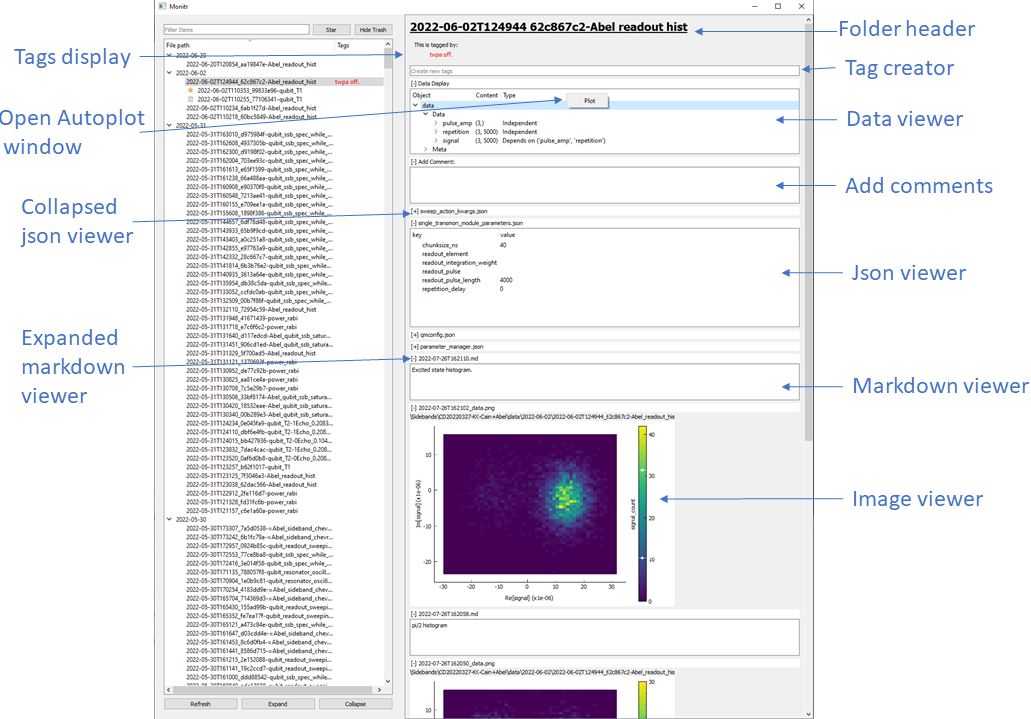
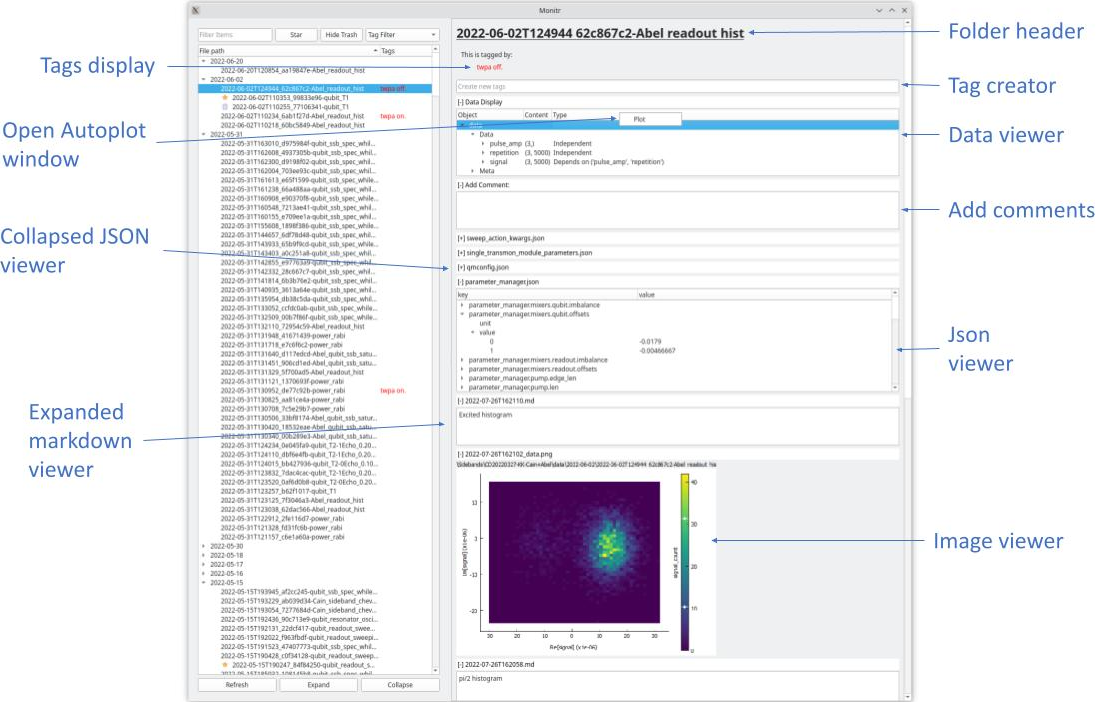
Images are now with the tag filter widget. Small revisions.

Changed region(s): [[0.0, 0.0, 1.0, 1.0], [0.5587, 0.4786, 0.6208, 0.5085], [0.7449, 0.8974, 0.7759, 0.9274]]

diff --git a/docs/source/plottr/monitr.rst b/docs/source/plottr/monitr.rst
@@ -7,11 +7,18 @@ Monitr is a file monitoring app that updates in real time showing every measurem
 How to Open Monitr
 ------------------
 
-Monitr is designed to monitor all subdirectories created inside the monitoring directory. We open Monitr from a terminal with the command:
+Monitr is designed to monitor all subdirectories created inside the monitoring directory. We open Monitr from a Linux terminal with the command:
+
+.. code-block:: console
+
+    $ plottr-monitr <monitoring-directory>
+
+From a Windows terminal:
 
 .. code-block:: console
 
     $ plottr-monitr.exe <monitoring-directory>
+
 
 The command will start the file monitoring and the main window will open:
 
@@ -22,7 +29,9 @@ The main window will display all :ref:`Datasets`, or directories containing data
 Datasets
 --------
 
-At the moment we define a folder as a dataset if it contains either a ddh5, markdown or json file inside of it. This is define in the :meth:`SupportedDataTypes <plottr.plottr.apps.monitr.SupportedDataTypes>`. If any file directory passes a regex matching with these file types, its parent folder is considered a dataset. If a directory lives inside of the monitoring directory but does not contain any of the three file types, or it doesn't have a folder that has them, the folder will not show in the main file tree.
+At the moment we define a folder as a dataset if it contains either a ddh5, markdown or json file inside of it. This is defined in the :meth:`SupportedDataTypes <plottr.plottr.apps.monitr.SupportedDataTypes>` object. If any file directory passes a regex matching with these file types, its parent folder is considered a dataset.
+
+.. note:: If a directory lives inside of the monitoring directory but does not contain any of the three file types, or it doesn't have a folder that has them, the folder will not show in the main file tree.
 
 Main Window (File Explorer)
 ---------------------------
@@ -35,12 +44,12 @@ The following is an example taken from a real data folder.
 Basic Control And Usability
 ^^^^^^^^^^^^^^^^^^^^^^^^^^^
 
-Selecting an item, either by clicking on it or selecting it with the arrow keys, will open the :ref:`right side window`. If you select an item that contains children, the right side window will contain all of the information of the parent item and all of its children:
+Selecting an item, either by clicking on it or selecting it with the arrow keys, will open the :ref:`right side window`. If you select an item that contains children, the right side window will contain all of the information of the selected item and all of its children:
 
 .. image:: img/right_side_window.png
 
 The following are a few things that the window can do:
-    * You can also have the window adjust the size of the File Path column automatically by double clicking in the column separator.
+    * You can resize the File Path column to show the complete name of all shown items, double click in the column separator.
     * You can rename any selected item by double clicking on its name or pressing F2 to change the currently selected item
     * Clicking on the collapse or extend bottom buttons will collapse or extend all currently showing items in the tree.
     * You can change the order in which the items are sorted (alphabetically or reverse alphabetically by clicking in the File Path column header.
@@ -50,43 +59,51 @@ The following are a few things that the window can do:
 Tags
 ^^^^
 
-Monitr supports custom tags that you can create on the fly. Tags are files with the .tag extension and its name is the tag itself. In the overview "twpa off" is a custom tag, the folder 2022-06-02T124944_62c867c2-Abel_readout_hist contains the file "twpa off.tag". All custom tags will appear in the tags column and they can be used for custom :ref:`filtering`.
-
-You can create new tags with the tag creator (see :ref:`Tags Display and Tag Creator` or by simply adding a .tag file in a dataset folder. Currently the only way of deleting or modifying a tag is to go in the directory and modify the file (easier modifications to tags are on the way :)).
+Monitr supports user created tags. Any file whose name end with ".tag" is considered a tag, and its file name becomes the text of the tag. In the overview "twpa off" is a custom tag, the folder 2022-06-02T124944_62c867c2-Abel_readout_hist contains the file "twpa off.tag". All custom tags will appear in the tags column and they can be used for custom :ref:`filtering`. You can create new tags with the tag creator (see :ref:`Tags Display and Tag Creator` or by simply adding a .tag file in a dataset folder). Two special tags exists: "__star__.tag" and "__trash__.tag", these will add icons to your items and have dedicated filtering buttons. The trash tag is the only tag that can be used to hide items.
 
 Filtering
 ^^^^^^^^^
 
-You can filter through the folders utilizing the "Filter Items" entry. All our filtering occurs by regex matching. When filtering, Monitr will show parent items if they contain children that match the filter requirements (even if the parent itself does not match). You can stack multiple searches using commas and only items that match with all of the queries will be shown.
+You can filter utilizing the "Filter Items" entry. All our filtering occurs by regex matching. When filtering, Monitr will show parent items if they contain children that match the filter requirements (even if the parent itself does not match). You can stack multiple searches using commas and only items that match with all of the queries will be shown.
 
 For example, if looking for "readout_hist" in our example, only items whose path match with that text will show up:
 
 .. image:: img/filtering_text.png
 
-we can also add a tag search to see which one had the twpa off by searching "readout_hist, t:twpa off":
+Filtering by tags can also be done through the tag filtering widget. Monitr keeps track of all the existing custom tags and lets you select them in the tag filtering widget.
+
+.. image:: img/tag_filter_widget.png
+
+We can also filter through files inside of the item folder, like their tag names or image names:
 
 .. image:: img/tag_filtering.png
 
 Like this we can combine as many searches for all five of our currently supported search types.
 
+
 Monitr supports filtering for:
-    * Paths of datasets: Just write your query and all items whose entire paths match with the query will be shown
+
+    * Paths of datasets: Just write your query and all items whose entire paths match with the query will be shown.
+
     * Tags: Start the queries with: "t:", "T:", or "tag:" directly followed by the tag you want to filter.
+
     * Markdown files: Start the queries with: "m:", "M:", or "md:" directly followed by the text you want to filter. This will look inside of all folders inside of the monitoring directory and show only the datasets that contain a markdown file whose name matches with the query.
+
     * Images: Start the queries with: "i:", "I:", or "image:" directly followed by the text you want to filter. This will look inside of all folders inside of the monitoring directory and show only the datasets that contain an image file whose name matches with the query.
+
     * Json: Start the queries with: "j:", "J:", or "json:" directly followed by the text you want to filter. This will look inside of all folders inside of the monitoring directory and show only the datasets that contain a markdown file whose name matches with the query.
 
 
 Star and Trash Items
 ^^^^^^^^^^^^^^^^^^^^
 
-You can star or trash items by right clicking on them and clicking on the star or trash button. This will create a tag file inside of that folder ("__star__.tag" or "__trash__.tag", see tags section ADD LINK TO THE TAGS SECTION), which indicates that that item is either a starred item or a trashed item. If you right click on an already starred/trashed item, an option to un-star or un-trash will appear instead.
+You can star or trash items by right clicking on them and clicking on the star or trash button. This will create a tag file inside of that folder ("__star__.tag" or "__trash__.tag"), which indicates that that item is either a starred item or a trashed item. If you right click on an already starred/trashed item, an option to un-star or un-trash will appear instead.
 
 The star and hide trash buttons (top right buttons of the main window picture) allow to toggle the two special filters corresponding to these special tags:
 
     * Star: If this button is toggled, only starred items (or parents of starred) will be shown:
 
-        .. image:: img/star-toggle.png
+        .. image:: img/star_toggle.png
 
     * Hide trash: Hides all trash items.
 
@@ -101,14 +118,14 @@ When clicking on a dataset, the right side window will get populated with the fi
 
 .. image:: img/right_side_annotated.png
 
-From the right side window you can open autoplot windows to plot the data of any data file that lives inside of that dataset.
+From the right side window you can open an autoplot window to plot the data of any data file that lives inside of that dataset.
 
-All viewers (expect the dataset header, the tags display, and the tag creator) live inside collapsible windows. These windows can be collapsed to hide them.
+All viewer widgets (expect the dataset header, the tags display, and the tag creator) live inside collapsible windows. These windows can be collapsed to hide them.
 
 Tags Display and Tag Creator
 ^^^^^^^^^^^^^^^^^^^^^^^^^^^^
 
-Under the file header you will see the tags display. In it all tags that are tagging that dataset will appear with different colors.
+Under the file header you will see the tags display. In it, all tags that are tagging that dataset will appear with different colors.
 
 Under the tag display, the tag creator is located. To create new tags simply type the tag in the line tag with the text: "Create new tags" and press enter. You can add multiple tags at a time by separating them with a coma:
 
@@ -138,5 +155,5 @@ Monitr will display three different kinds of files:
 
 You can create new comments from the comment creator, just write the comment and click on the save button. A small dialog will appear when this happen asking for a file name. All comments created with this method will have a time stamp in their name before their given name. If the dialog is left empty, the comment will only have a time stamp as its file name.
 
-If utilizing the pyqtgraph backend for autoplot, new images with the correct time stamp can be created by clicking the "Save Figure" button at the bottom toolbar.
+If utilizing the pyqtgraph backend for autoplot, new images with the correct time stamp can be created by clicking the "Save Figure" button at the bottom toolbar. These images will be saved in the same folder as the DDH5 file automatically.
 
